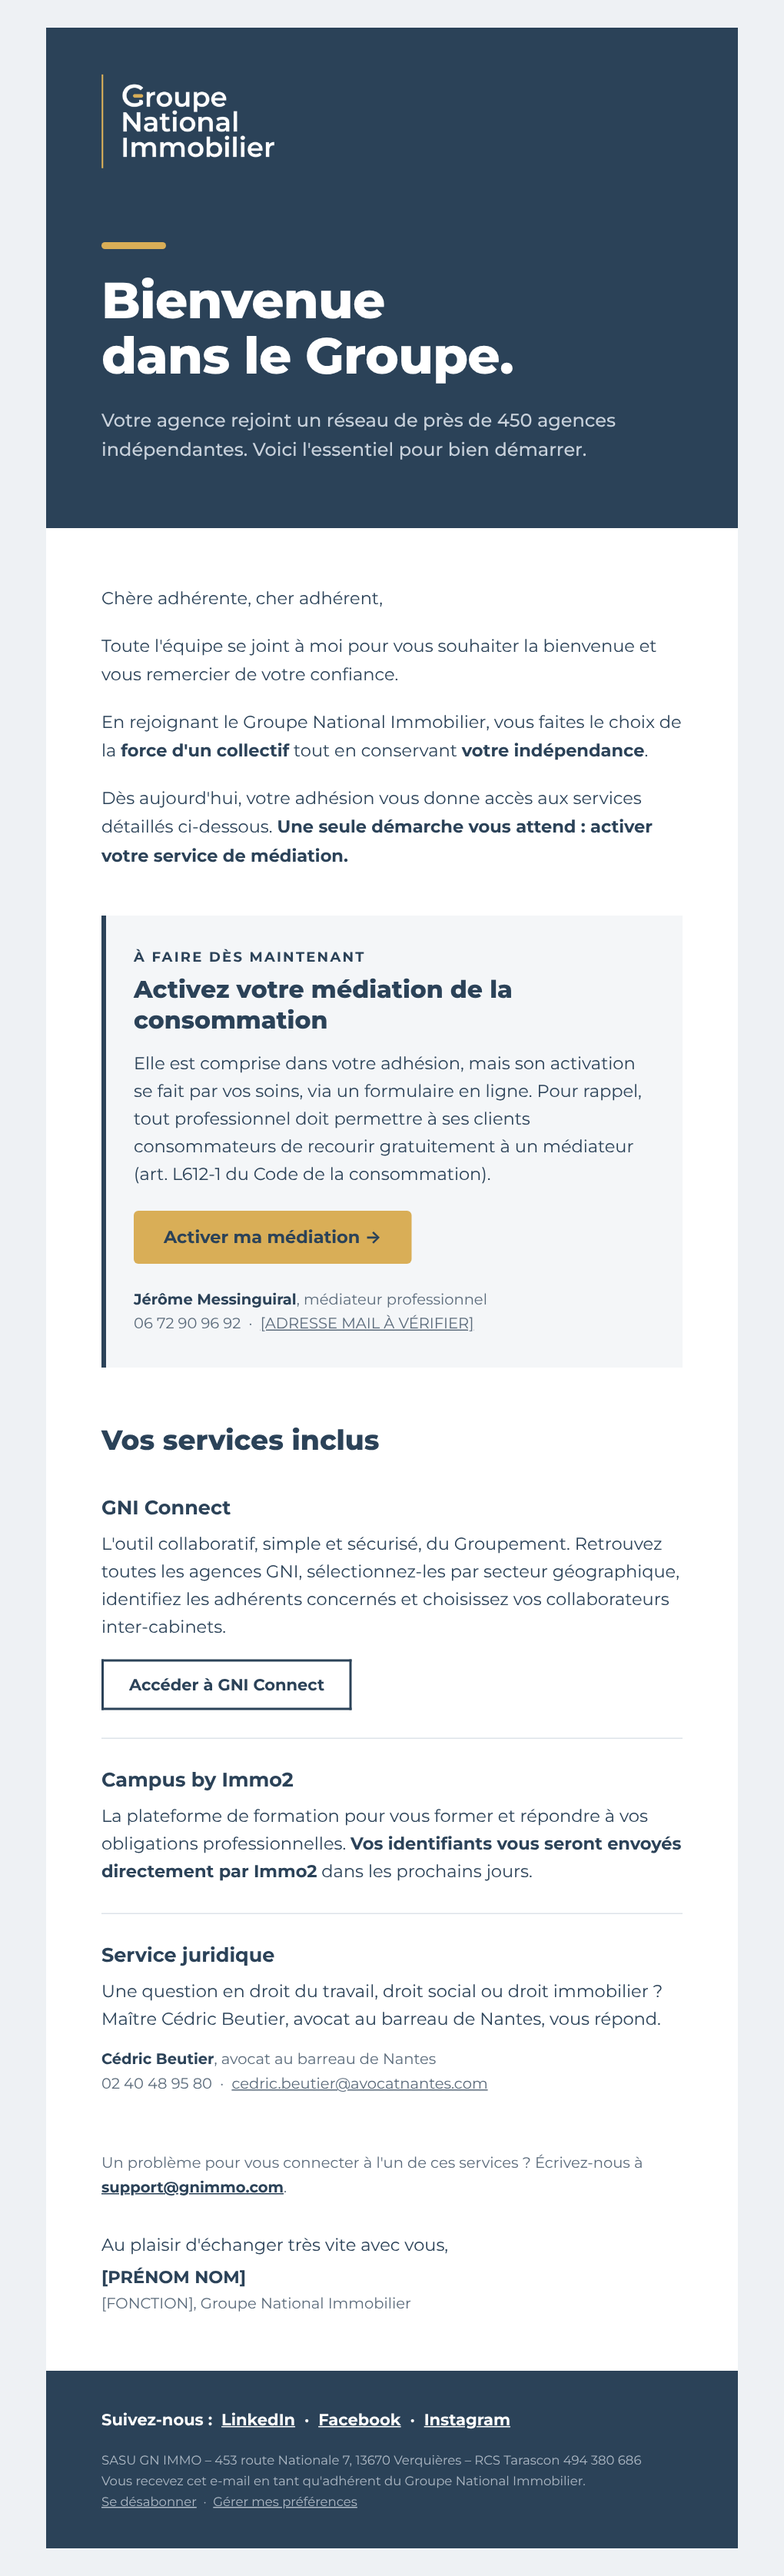
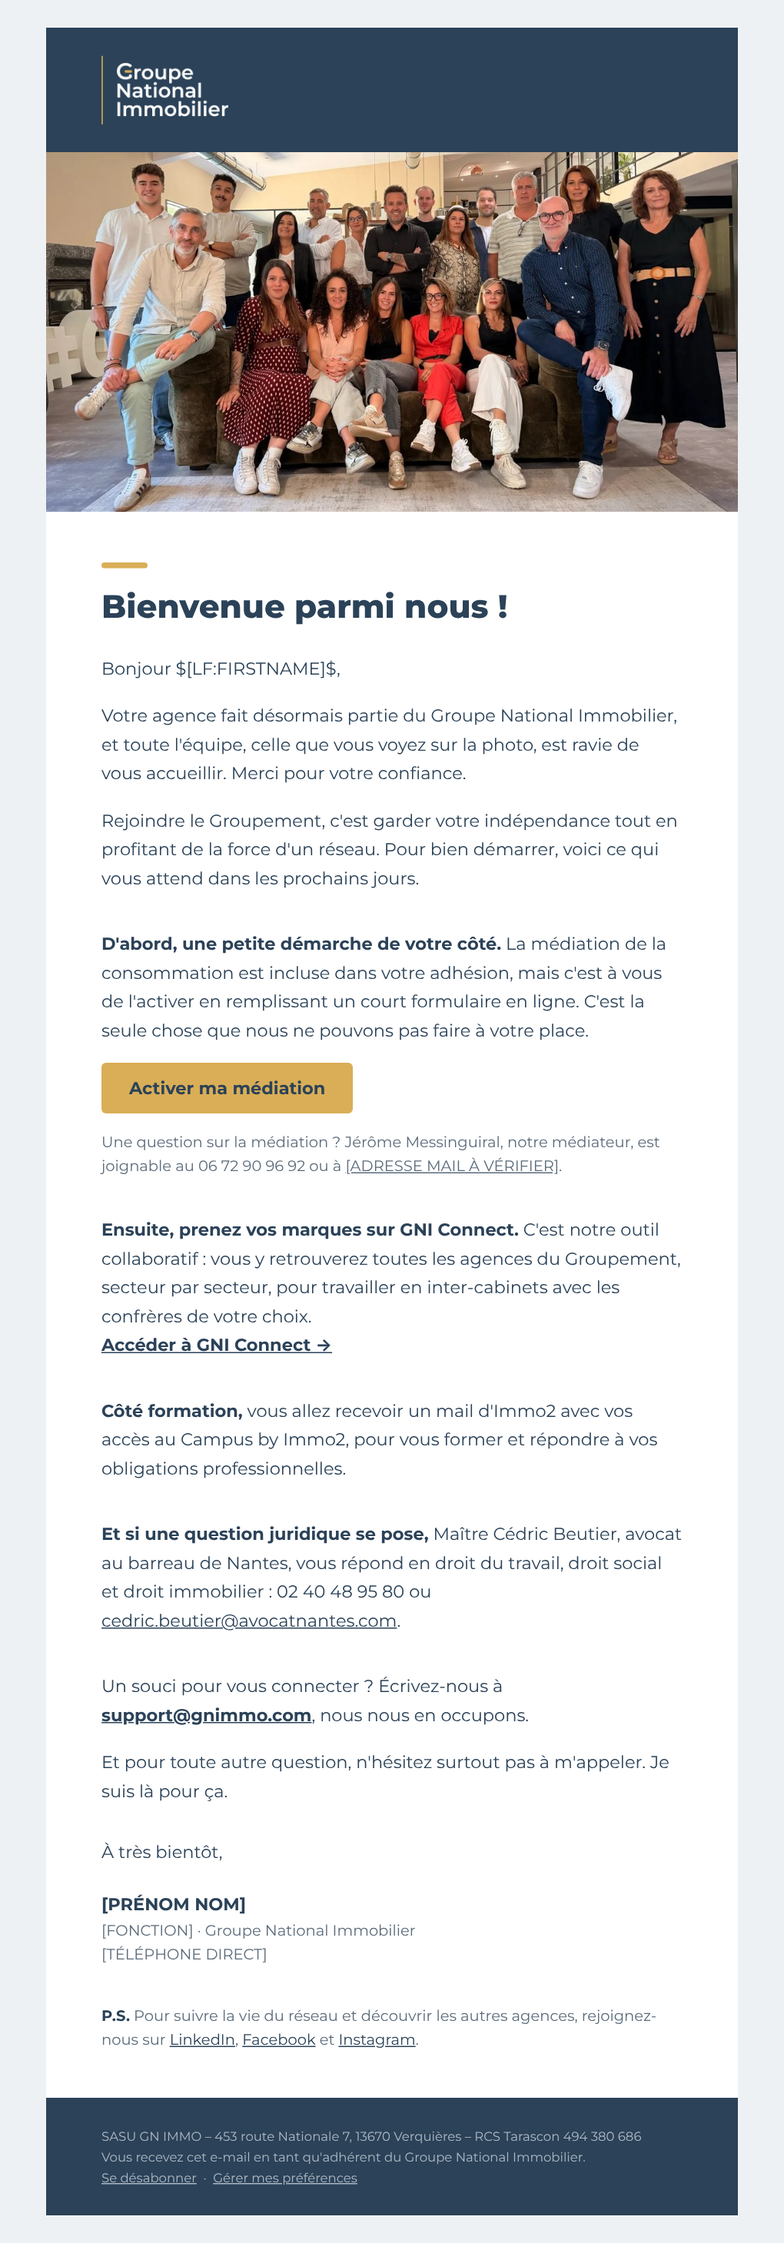
Mail de bienvenue : version plus personnelle (lettre signée, photo de l'équipe, prénom)
Claude-Session: https://claude.ai/code/session_01CMij21dnqe9DR5hbw6ZruP

Changed region(s): [[0.0608, 0.0312, 0.9422, 0.9976], [0.7598, 0.7794, 0.8206, 0.8106], [0.6686, 0.7794, 0.699, 0.8106]]

diff --git a/mailing-bienvenue/mail-bienvenue.html b/mailing-bienvenue/mail-bienvenue.html
@@ -19,8 +19,7 @@
   @media only screen and (max-width: 620px) {
     .container { width: 100% !important; }
     .px { padding-left: 24px !important; padding-right: 24px !important; }
-    .h1 { font-size: 34px !important; line-height: 38px !important; }
-    .btn a { display: block !important; }
+    .fluid { width: 100% !important; height: auto !important; }
   }
 </style>
 </head>
@@ -28,7 +27,7 @@
 
 <!-- Pré-header (aperçu affiché dans la boîte de réception) -->
 <div style="display:none; max-height:0; overflow:hidden; mso-hide:all; font-size:1px; line-height:1px; color:#EEF1F4;">
-  Vos accès, vos services inclus et la seule démarche à faire dès maintenant.&#8199;&#847;&#8199;&#847;&#8199;&#847;&#8199;&#847;&#8199;&#847;&#8199;&#847;&#8199;&#847;&#8199;&#847;
+  Toute l'équipe est ravie de vous accueillir. Voici vos premiers pas dans le Groupement.&#8199;&#847;&#8199;&#847;&#8199;&#847;&#8199;&#847;&#8199;&#847;&#8199;&#847;&#8199;&#847;&#8199;&#847;
 </div>
 
 <table role="presentation" width="100%" cellpadding="0" cellspacing="0" border="0" bgcolor="#EEF1F4" style="background-color:#EEF1F4;">
@@ -36,121 +35,72 @@
 
 <table role="presentation" class="container" width="600" cellpadding="0" cellspacing="0" border="0" style="width:600px; max-width:600px;">
 
-  <!-- ============ EN-TÊTE + ACCROCHE (marine) ============ -->
+  <!-- En-tête : logo -->
+  <tr><td bgcolor="#2B4258" class="px" style="background-color:#2B4258; padding:24px 48px;">
+    <!-- Logo officiel : remplacer src par l'URL de l'image importée dans Zoho Campaigns -->
+    <img src="images/logo-gni-blanc.png" width="110" height="60" alt="Groupe National Immobilier" style="width:110px; height:60px;">
+  </td></tr>
+
+  <!-- Photo de l'équipe : remplacer src par l'URL de l'image importée dans Zoho Campaigns -->
   <tr><td bgcolor="#2B4258" style="background-color:#2B4258;">
-    <table role="presentation" width="100%" cellpadding="0" cellspacing="0" border="0">
-      <tr><td class="px" style="padding:40px 48px 0 48px;">
-        <!-- Logo officiel : remplacer src par l'URL de l'image importée dans Zoho Campaigns -->
-        <img src="images/logo-gni-blanc.png" width="150" height="82" alt="Groupe National Immobilier" style="width:150px; height:82px;">
-      </td></tr>
-      <tr><td class="px" style="padding:64px 48px 0 48px;">
-        <!-- Signature graphique : le trait or du G -->
-        <table role="presentation" cellpadding="0" cellspacing="0" border="0"><tr>
-          <td width="56" height="6" bgcolor="#D9AE57" style="width:56px; height:6px; background-color:#D9AE57; border-radius:3px; font-size:0; line-height:0;">&nbsp;</td>
-        </tr></table>
-      </td></tr>
-      <tr><td class="px h1" style="padding:20px 48px 0 48px; font-family:Montserrat, 'Helvetica Neue', Helvetica, Arial, sans-serif; font-size:44px; line-height:48px; font-weight:800; color:#FFFFFF; letter-spacing:-0.5px;">
-        Bienvenue<br>dans le Groupe.
-      </td></tr>
-      <tr><td class="px" style="padding:20px 48px 56px 48px; font-family:Montserrat, 'Helvetica Neue', Helvetica, Arial, sans-serif; font-size:16px; line-height:25px; font-weight:500; color:#C9D2DC;">
-        Votre agence rejoint un réseau de près de 450&nbsp;agences indépendantes. Voici l'essentiel pour bien démarrer.
-      </td></tr>
-    </table>
+    <img class="fluid" src="images/photo-equipe.jpg" width="600" height="312" alt="L'équipe du Groupe National Immobilier" style="width:600px; height:312px;">
   </td></tr>
 
-  <!-- ============ LETTRE (blanc) ============ -->
-  <tr><td bgcolor="#FFFFFF" style="background-color:#FFFFFF;">
-    <table role="presentation" width="100%" cellpadding="0" cellspacing="0" border="0">
-      <tr><td class="px" style="padding:48px 48px 0 48px; font-family:Montserrat, 'Helvetica Neue', Helvetica, Arial, sans-serif; font-size:15px; line-height:25px; color:#2B4258;">
-        <p style="margin:0 0 16px 0;">Chère adhérente, cher adhérent,</p>
-        <p style="margin:0 0 16px 0;">Toute l'équipe se joint à moi pour vous souhaiter la bienvenue et vous remercier de votre confiance.</p>
-        <p style="margin:0 0 16px 0;">En rejoignant le Groupe National Immobilier, vous faites le choix de la <strong>force d'un collectif</strong> tout en conservant <strong>votre indépendance</strong>.</p>
-        <p style="margin:0;">Dès aujourd'hui, votre adhésion vous donne accès aux services détaillés ci-dessous. <strong>Une seule démarche vous attend&nbsp;: activer votre service de médiation.</strong></p>
-      </td></tr>
+  <!-- Lettre -->
+  <tr><td bgcolor="#FFFFFF" class="px" style="background-color:#FFFFFF; padding:44px 48px 40px 48px; font-family:Montserrat, 'Helvetica Neue', Helvetica, Arial, sans-serif; font-size:15px; line-height:25px; color:#2B4258;">
 
-      <!-- ===== À FAIRE DÈS MAINTENANT : médiation ===== -->
-      <tr><td class="px" style="padding:40px 48px 0 48px;">
-        <table role="presentation" width="100%" cellpadding="0" cellspacing="0" border="0">
-          <tr>
-            <td width="4" bgcolor="#2B4258" style="width:4px; background-color:#2B4258; font-size:0; line-height:0;">&nbsp;</td>
-            <td bgcolor="#F4F6F8" style="background-color:#F4F6F8; padding:28px 28px 28px 24px; font-family:Montserrat, 'Helvetica Neue', Helvetica, Arial, sans-serif; color:#2B4258;">
-              <p style="margin:0 0 6px 0; font-size:12px; line-height:16px; font-weight:700; letter-spacing:1.5px; text-transform:uppercase; color:#2B4258;">À faire dès maintenant</p>
-              <p style="margin:0 0 12px 0; font-size:21px; line-height:27px; font-weight:800;">Activez votre médiation de la consommation</p>
-              <p style="margin:0 0 20px 0; font-size:15px; line-height:24px;">Elle est comprise dans votre adhésion, mais son activation se fait par vos soins, via un formulaire en ligne. Pour rappel, tout professionnel doit permettre à ses clients consommateurs de recourir gratuitement à un médiateur (art.&nbsp;L612-1 du Code de la consommation).</p>
-              <!-- Bouton principal (or) -->
-              <table role="presentation" class="btn" cellpadding="0" cellspacing="0" border="0"><tr>
-                <td bgcolor="#D9AE57" style="background-color:#D9AE57; border-radius:4px;">
-                  <a href="https://www.mediateur-consommation-smp.fr/groupement-gn-immo-adherer-au-service-de-mediation-de-la-consommation/" target="_blank" style="display:inline-block; padding:14px 26px; font-family:Montserrat, 'Helvetica Neue', Helvetica, Arial, sans-serif; font-size:15px; line-height:18px; font-weight:700; color:#2B4258; text-decoration:none; text-align:center;">Activer ma médiation&nbsp;&rarr;</a>
-                </td>
-              </tr></table>
-              <p style="margin:20px 0 0 0; font-size:13px; line-height:21px; color:#5B6B7B;">
-                <strong style="color:#2B4258;">Jérôme Messinguiral</strong>, médiateur professionnel<br>
-                <a href="tel:+33672909692" style="color:#5B6B7B; text-decoration:none;">06&nbsp;72&nbsp;90&nbsp;96&nbsp;92</a> &nbsp;·&nbsp; <a href="mailto:[À VÉRIFIER]" style="color:#5B6B7B;">[ADRESSE MAIL À VÉRIFIER]</a>
-              </p>
-            </td>
-          </tr>
-        </table>
-      </td></tr>
+    <!-- Signature graphique : le trait or du G -->
+    <table role="presentation" cellpadding="0" cellspacing="0" border="0"><tr>
+      <td width="40" height="5" bgcolor="#D9AE57" style="width:40px; height:5px; background-color:#D9AE57; border-radius:3px; font-size:0; line-height:0;">&nbsp;</td>
+    </tr></table>
 
-      <!-- ===== VOS SERVICES INCLUS ===== -->
-      <tr><td class="px" style="padding:48px 48px 8px 48px; font-family:Montserrat, 'Helvetica Neue', Helvetica, Arial, sans-serif; font-size:24px; line-height:30px; font-weight:800; color:#2B4258;">
-        Vos services inclus
-      </td></tr>
+    <p style="margin:16px 0 24px 0; font-size:28px; line-height:34px; font-weight:800; color:#2B4258;">Bienvenue parmi nous&nbsp;!</p>
 
-      <!-- GNI Connect -->
-      <tr><td class="px" style="padding:0 48px;">
-        <table role="presentation" width="100%" cellpadding="0" cellspacing="0" border="0">
-          <tr><td style="padding:24px 0; border-bottom:1px solid #DDE3E9; font-family:Montserrat, 'Helvetica Neue', Helvetica, Arial, sans-serif; color:#2B4258;">
-            <p style="margin:0 0 8px 0; font-size:17px; line-height:23px; font-weight:700;">GNI Connect</p>
-            <p style="margin:0 0 16px 0; font-size:15px; line-height:24px;">L'outil collaboratif, simple et sécurisé, du Groupement. Retrouvez toutes les agences GNI, sélectionnez-les par secteur géographique, identifiez les adhérents concernés et choisissez vos collaborateurs inter-cabinets.</p>
-            <table role="presentation" class="btn" cellpadding="0" cellspacing="0" border="0"><tr>
-              <td style="border:2px solid #2B4258; border-radius:4px;">
-                <a href="https://app.gniconnect.com/" target="_blank" style="display:inline-block; padding:11px 22px; font-family:Montserrat, 'Helvetica Neue', Helvetica, Arial, sans-serif; font-size:14px; line-height:18px; font-weight:700; color:#2B4258; text-decoration:none; text-align:center;">Accéder à GNI Connect</a>
-              </td>
-            </tr></table>
-          </td></tr>
+    <p style="margin:0 0 16px 0;">Bonjour $[LF:FIRSTNAME]$,</p>
 
-          <!-- Campus by Immo2 -->
-          <tr><td style="padding:24px 0; border-bottom:1px solid #DDE3E9; font-family:Montserrat, 'Helvetica Neue', Helvetica, Arial, sans-serif; color:#2B4258;">
-            <p style="margin:0 0 8px 0; font-size:17px; line-height:23px; font-weight:700;">Campus by Immo2</p>
-            <p style="margin:0; font-size:15px; line-height:24px;">La plateforme de formation pour vous former et répondre à vos obligations professionnelles. <strong>Vos identifiants vous seront envoyés directement par Immo2</strong> dans les prochains jours.</p>
-          </td></tr>
+    <p style="margin:0 0 16px 0;">Votre agence fait désormais partie du Groupe National Immobilier, et toute l'équipe, celle que vous voyez sur la photo, est ravie de vous accueillir. Merci pour votre confiance.</p>
 
-          <!-- Service juridique -->
-          <tr><td style="padding:24px 0; font-family:Montserrat, 'Helvetica Neue', Helvetica, Arial, sans-serif; color:#2B4258;">
-            <p style="margin:0 0 8px 0; font-size:17px; line-height:23px; font-weight:700;">Service juridique</p>
-            <p style="margin:0 0 12px 0; font-size:15px; line-height:24px;">Une question en droit du travail, droit social ou droit immobilier&nbsp;? Maître Cédric Beutier, avocat au barreau de Nantes, vous répond.</p>
-            <p style="margin:0; font-size:13px; line-height:21px; color:#5B6B7B;">
-              <strong style="color:#2B4258;">Cédric Beutier</strong>, avocat au barreau de Nantes<br>
-              <a href="tel:+33240489580" style="color:#5B6B7B; text-decoration:none;">02&nbsp;40&nbsp;48&nbsp;95&nbsp;80</a> &nbsp;·&nbsp; <a href="mailto:cedric.beutier@avocatnantes.com" style="color:#5B6B7B;">cedric.beutier@avocatnantes.com</a>
-            </p>
-          </td></tr>
-        </table>
-      </td></tr>
+    <p style="margin:0 0 32px 0;">Rejoindre le Groupement, c'est garder votre indépendance tout en profitant de la force d'un réseau. Pour bien démarrer, voici ce qui vous attend dans les prochains jours.</p>
 
-      <!-- Support + signature -->
-      <tr><td class="px" style="padding:24px 48px 48px 48px; font-family:Montserrat, 'Helvetica Neue', Helvetica, Arial, sans-serif; font-size:15px; line-height:24px; color:#2B4258;">
-        <p style="margin:0 0 28px 0; font-size:13px; line-height:21px; color:#5B6B7B;">Un problème pour vous connecter à l'un de ces services&nbsp;? Écrivez-nous à <a href="mailto:support@gnimmo.com" style="color:#2B4258; font-weight:700;">support@gnimmo.com</a>.</p>
-        <p style="margin:0 0 4px 0;">Au plaisir d'échanger très vite avec vous,</p>
-        <p style="margin:0; font-weight:700;">[PRÉNOM NOM]</p>
-        <p style="margin:0; font-size:13px; line-height:21px; color:#5B6B7B;">[FONCTION], Groupe National Immobilier</p>
-      </td></tr>
-    </table>
+    <!-- 1. Médiation : la seule action demandée -->
+    <p style="margin:0 0 16px 0;"><strong>D'abord, une petite démarche de votre côté.</strong> La médiation de la consommation est incluse dans votre adhésion, mais c'est à vous de l'activer en remplissant un court formulaire en ligne. C'est la seule chose que nous ne pouvons pas faire à votre place.</p>
+
+    <table role="presentation" cellpadding="0" cellspacing="0" border="0" style="margin:0 0 14px 0;"><tr>
+      <td bgcolor="#D9AE57" style="background-color:#D9AE57; border-radius:4px;">
+        <a href="https://www.mediateur-consommation-smp.fr/groupement-gn-immo-adherer-au-service-de-mediation-de-la-consommation/" target="_blank" style="display:inline-block; padding:13px 24px; font-family:Montserrat, 'Helvetica Neue', Helvetica, Arial, sans-serif; font-size:15px; line-height:18px; font-weight:700; color:#2B4258; text-decoration:none;">Activer ma médiation</a>
+      </td>
+    </tr></table>
+
+    <p style="margin:0 0 32px 0; font-size:13px; line-height:21px; color:#5B6B7B;">Une question sur la médiation&nbsp;? Jérôme Messinguiral, notre médiateur, est joignable au <a href="tel:+33672909692" style="color:#5B6B7B; text-decoration:none;">06&nbsp;72&nbsp;90&nbsp;96&nbsp;92</a> ou à <a href="mailto:[À VÉRIFIER]" style="color:#5B6B7B;">[ADRESSE MAIL À VÉRIFIER]</a>.</p>
+
+    <!-- 2. GNI Connect -->
+    <p style="margin:0 0 32px 0;"><strong>Ensuite, prenez vos marques sur GNI Connect.</strong> C'est notre outil collaboratif&nbsp;: vous y retrouverez toutes les agences du Groupement, secteur par secteur, pour travailler en inter-cabinets avec les confrères de votre choix.<br>
+    <a href="https://app.gniconnect.com/" target="_blank" style="color:#2B4258; font-weight:700; text-decoration:underline;">Accéder à GNI Connect&nbsp;&rarr;</a></p>
+
+    <!-- 3. Campus by Immo2 -->
+    <p style="margin:0 0 32px 0;"><strong>Côté formation,</strong> vous allez recevoir un mail d'Immo2 avec vos accès au Campus by Immo2, pour vous former et répondre à vos obligations professionnelles.</p>
+
+    <!-- 4. Service juridique -->
+    <p style="margin:0 0 32px 0;"><strong>Et si une question juridique se pose,</strong> Maître Cédric Beutier, avocat au barreau de Nantes, vous répond en droit du travail, droit social et droit immobilier&nbsp;: <a href="tel:+33240489580" style="color:#2B4258; text-decoration:none; white-space:nowrap;">02&nbsp;40&nbsp;48&nbsp;95&nbsp;80</a> ou <a href="mailto:cedric.beutier@avocatnantes.com" style="color:#2B4258;">cedric.beutier@avocatnantes.com</a>.</p>
+
+    <p style="margin:0 0 16px 0;">Un souci pour vous connecter&nbsp;? Écrivez-nous à <a href="mailto:support@gnimmo.com" style="color:#2B4258; font-weight:700;">support@gnimmo.com</a>, nous nous en occupons.</p>
+
+    <p style="margin:0 0 28px 0;">Et pour toute autre question, n'hésitez surtout pas à m'appeler. Je suis là pour ça.</p>
+
+    <p style="margin:0 0 20px 0;">À très bientôt,</p>
+
+    <!-- Signature -->
+    <p style="margin:0; font-weight:700;">[PRÉNOM NOM]</p>
+    <p style="margin:0; font-size:13px; line-height:21px; color:#5B6B7B;">[FONCTION] · Groupe National Immobilier<br>[TÉLÉPHONE DIRECT]</p>
+
+    <p style="margin:32px 0 0 0; font-size:13px; line-height:21px; color:#5B6B7B;"><strong style="color:#2B4258;">P.S.</strong> Pour suivre la vie du réseau et découvrir les autres agences, rejoignez-nous sur <a href="https://www.linkedin.com/company/69384063/" target="_blank" style="color:#2B4258;">LinkedIn</a>, <a href="https://www.facebook.com/groupenationalimmobilier" target="_blank" style="color:#2B4258;">Facebook</a> et <a href="https://www.instagram.com/groupenationalimmobilier/" target="_blank" style="color:#2B4258;">Instagram</a>.</p>
   </td></tr>
 
-  <!-- ============ PIED DE PAGE (marine) ============ -->
-  <tr><td bgcolor="#2B4258" class="px" style="background-color:#2B4258; padding:32px 48px; font-family:Montserrat, 'Helvetica Neue', Helvetica, Arial, sans-serif;">
-    <p style="margin:0 0 16px 0; font-size:14px; line-height:20px; font-weight:700; color:#FFFFFF;">
-      Suivez-nous&nbsp;:&nbsp;
-      <a href="https://www.linkedin.com/company/69384063/" target="_blank" style="color:#FFFFFF; text-decoration:underline;">LinkedIn</a> &nbsp;·&nbsp;
-      <a href="https://www.facebook.com/groupenationalimmobilier" target="_blank" style="color:#FFFFFF; text-decoration:underline;">Facebook</a> &nbsp;·&nbsp;
-      <a href="https://www.instagram.com/groupenationalimmobilier/" target="_blank" style="color:#FFFFFF; text-decoration:underline;">Instagram</a>
-    </p>
-    <p style="margin:0; font-size:11px; line-height:18px; color:#AEB9C5;">
-      SASU GN IMMO – 453 route Nationale 7, 13670 Verquières – RCS Tarascon 494&nbsp;380&nbsp;686<br>
-      Vous recevez cet e-mail en tant qu'adhérent du Groupe National Immobilier.<br>
-      <a href="http://$[LI:UNSUBSCRIBE]$" target="_blank" style="color:#AEB9C5; text-decoration:underline;">Se désabonner</a> &nbsp;·&nbsp; <a href="http://$[LI:SUB_PREF]$" target="_blank" style="color:#AEB9C5; text-decoration:underline;">Gérer mes préférences</a>
-    </p>
+  <!-- Pied de page -->
+  <tr><td bgcolor="#2B4258" class="px" style="background-color:#2B4258; padding:24px 48px; font-family:Montserrat, 'Helvetica Neue', Helvetica, Arial, sans-serif; font-size:11px; line-height:18px; color:#AEB9C5;">
+    SASU GN IMMO – 453 route Nationale 7, 13670 Verquières – RCS Tarascon 494&nbsp;380&nbsp;686<br>
+    Vous recevez cet e-mail en tant qu'adhérent du Groupe National Immobilier.<br>
+    <a href="http://$[LI:UNSUBSCRIBE]$" target="_blank" style="color:#AEB9C5; text-decoration:underline;">Se désabonner</a> &nbsp;·&nbsp; <a href="http://$[LI:SUB_PREF]$" target="_blank" style="color:#AEB9C5; text-decoration:underline;">Gérer mes préférences</a>
   </td></tr>
 
 </table>

diff --git a/mailing-bienvenue/README.md b/mailing-bienvenue/README.md
@@ -7,17 +7,19 @@ prêt à importer dans Zoho Campaigns (« Importer du HTML » / éditeur de code
 |---|---|
 | `mail-bienvenue.html` | Le mail (600 px, compatible mobile et Outlook) |
 | `images/logo-gni-blanc.png` | Logo officiel blanc, à importer dans Zoho |
-| `apercu.png` | Aperçu du rendu |
+| `images/photo-equipe.jpg` | Photo de l'équipe, à importer dans Zoho |
+| `apercu.png` / `apercu-mobile.png` | Aperçus du rendu |
 
-**Objet proposé :** Bienvenue au Groupe National Immobilier
-**Pré-header :** Vos accès, vos services inclus et la seule démarche à faire dès maintenant.
+**Objet proposé :** Bienvenue au Groupe National Immobilier, $[LF:FIRSTNAME]$ !
+**Pré-header :** Toute l'équipe est ravie de vous accueillir. Voici vos premiers pas dans le Groupement.
 
 ## Avant l'envoi
 
-1. Importer `images/logo-gni-blanc.png` dans la bibliothèque d'images Zoho, puis remplacer
-   `src="images/logo-gni-blanc.png"` par l'URL obtenue.
-2. Compléter la signature : `[PRÉNOM NOM]` et `[FONCTION]`.
+1. Importer `images/logo-gni-blanc.png` et `images/photo-equipe.jpg` dans la bibliothèque d'images Zoho,
+   puis remplacer les deux `src="images/…"` par les URL obtenues.
+2. Compléter la signature : `[PRÉNOM NOM]`, `[FONCTION]` et `[TÉLÉPHONE DIRECT]`.
+   Vérifier la balise prénom `$[LF:FIRSTNAME]$` (menu « Insérer un champ de fusion » de Zoho) et lui donner
+   une valeur par défaut, pour éviter un « Bonjour , » si le prénom est vide.
 3. Vérifier l'adresse mail du médiateur (dans l'ancien mail : `messinguiral@cpmn.fnewsletter2go.com`,
    adresse visiblement altérée par un outil de suivi).
-4. Vérifier le chiffre « près de 450 agences ».
-5. Envoyer un test (Gmail, Outlook, mobile) et cliquer chaque lien.
+4. Envoyer un test (Gmail, Outlook, mobile) et cliquer chaque lien.
